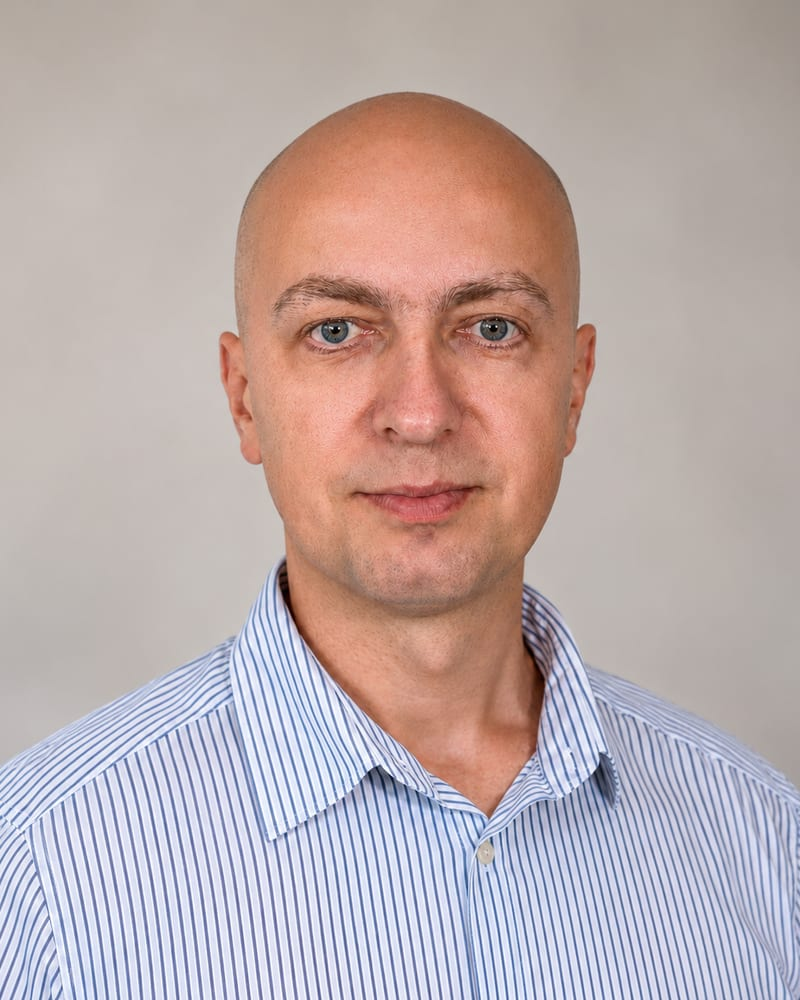
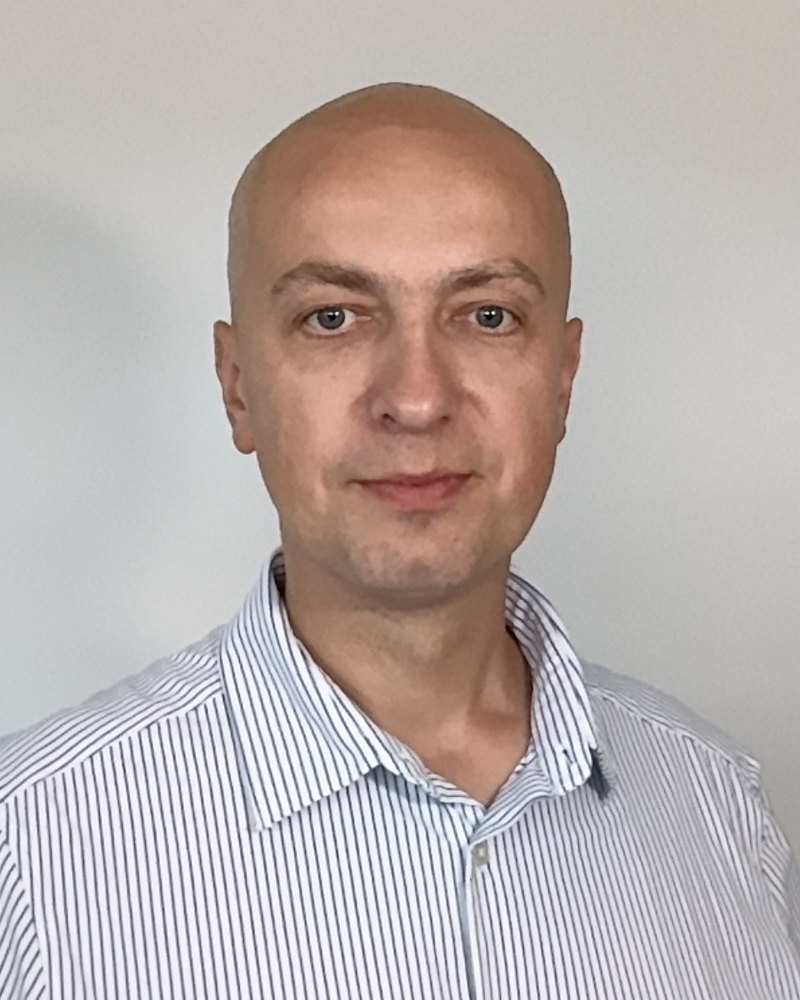
Nowy lead w hero i nowe zdjęcie profilowe
- Lead: Kamil daje odpowiedź ("Odpowiem ci..."), "słabe punkty" zamiast "co grozi"; to samo w meta description (PL i EN)
- Zdjęcie: nowy kadr z oryginału bez artefaktów po obróbce AI (hero 800x1000, dane strukturalne 1200x1200)

diff --git a/src/i18n/pl.ts b/src/i18n/pl.ts
@@ -6,7 +6,7 @@ export const pl = {
   meta: {
     title: "Kamil Wałdoch: Tech Lead i architekt oprogramowania",
     description:
-      "Pomagam właścicielom firm zdecydować, czy produkt jest gotowy do uruchomienia, co grozi i ile będzie kosztować utrzymanie. Tech Lead i architekt, 16 lat w projektach IT.",
+      "Pomagam właścicielom firm zdecydować, czy produkt jest gotowy do uruchomienia, gdzie są słabe punkty i ile będzie kosztować utrzymanie. Tech Lead i architekt, 16 lat w projektach IT.",
     jobTitle: "Tech Lead i architekt oprogramowania",
     knowsAbout: ["architektura oprogramowania", "prowadzenie zespołów IT", "audyt IT", "AI w projektach IT", "SOC 2"],
   },
@@ -23,7 +23,7 @@ export const pl = {
   hero: {
     eyebrow: "Kamil Wałdoch · Tech Lead i architekt oprogramowania",
     name: "Projekt IT bez niespodzianek",
-    lead: "Wiesz, czy możesz uruchomić produkt, co grozi i ile będzie kosztować utrzymanie. Projektuję architekturę i prowadzę zespół od pierwszej rozmowy do wdrożenia.",
+    lead: "Odpowiem ci, czy produkt jest gotowy do uruchomienia, gdzie są słabe punkty i ile będzie kosztować utrzymanie.",
     thesis: ["Pisanie kodu staniało.", "Decyzje nie."],
     ctaPrimary: "Porozmawiajmy",
     stats: [

diff --git a/src/i18n/en.ts b/src/i18n/en.ts
@@ -7,7 +7,7 @@ export const en: Dict = {
   meta: {
     title: "Kamil Wałdoch: Tech Lead & Solutions Architect",
     description:
-      "I help business owners decide whether a product is ready to launch, what the risks are and what it will cost to run. Tech Lead and architect, 16 years in software.",
+      "I help business owners decide whether a product is ready to launch, where the weak spots are and what it will cost to run. Tech Lead and architect, 16 years in software.",
     jobTitle: "Tech Lead & Solutions Architect",
     knowsAbout: ["software architecture", "leading IT teams", "IT audit", "AI in software delivery", "SOC 2"],
   },
@@ -24,7 +24,7 @@ export const en: Dict = {
   hero: {
     eyebrow: "Kamil Wałdoch · Tech Lead & Solutions Architect",
     name: "Software projects without surprises",
-    lead: "You know whether you can launch, what the risks are and what it will cost to run. I design the architecture and lead the team from the first conversation to launch.",
+    lead: "I'll answer three questions: is it ready to launch, where are the weak spots, what will it cost to run.",
     thesis: ["Writing code got cheaper.", "Decisions didn't."],
     ctaPrimary: "Let's talk",
     stats: [
